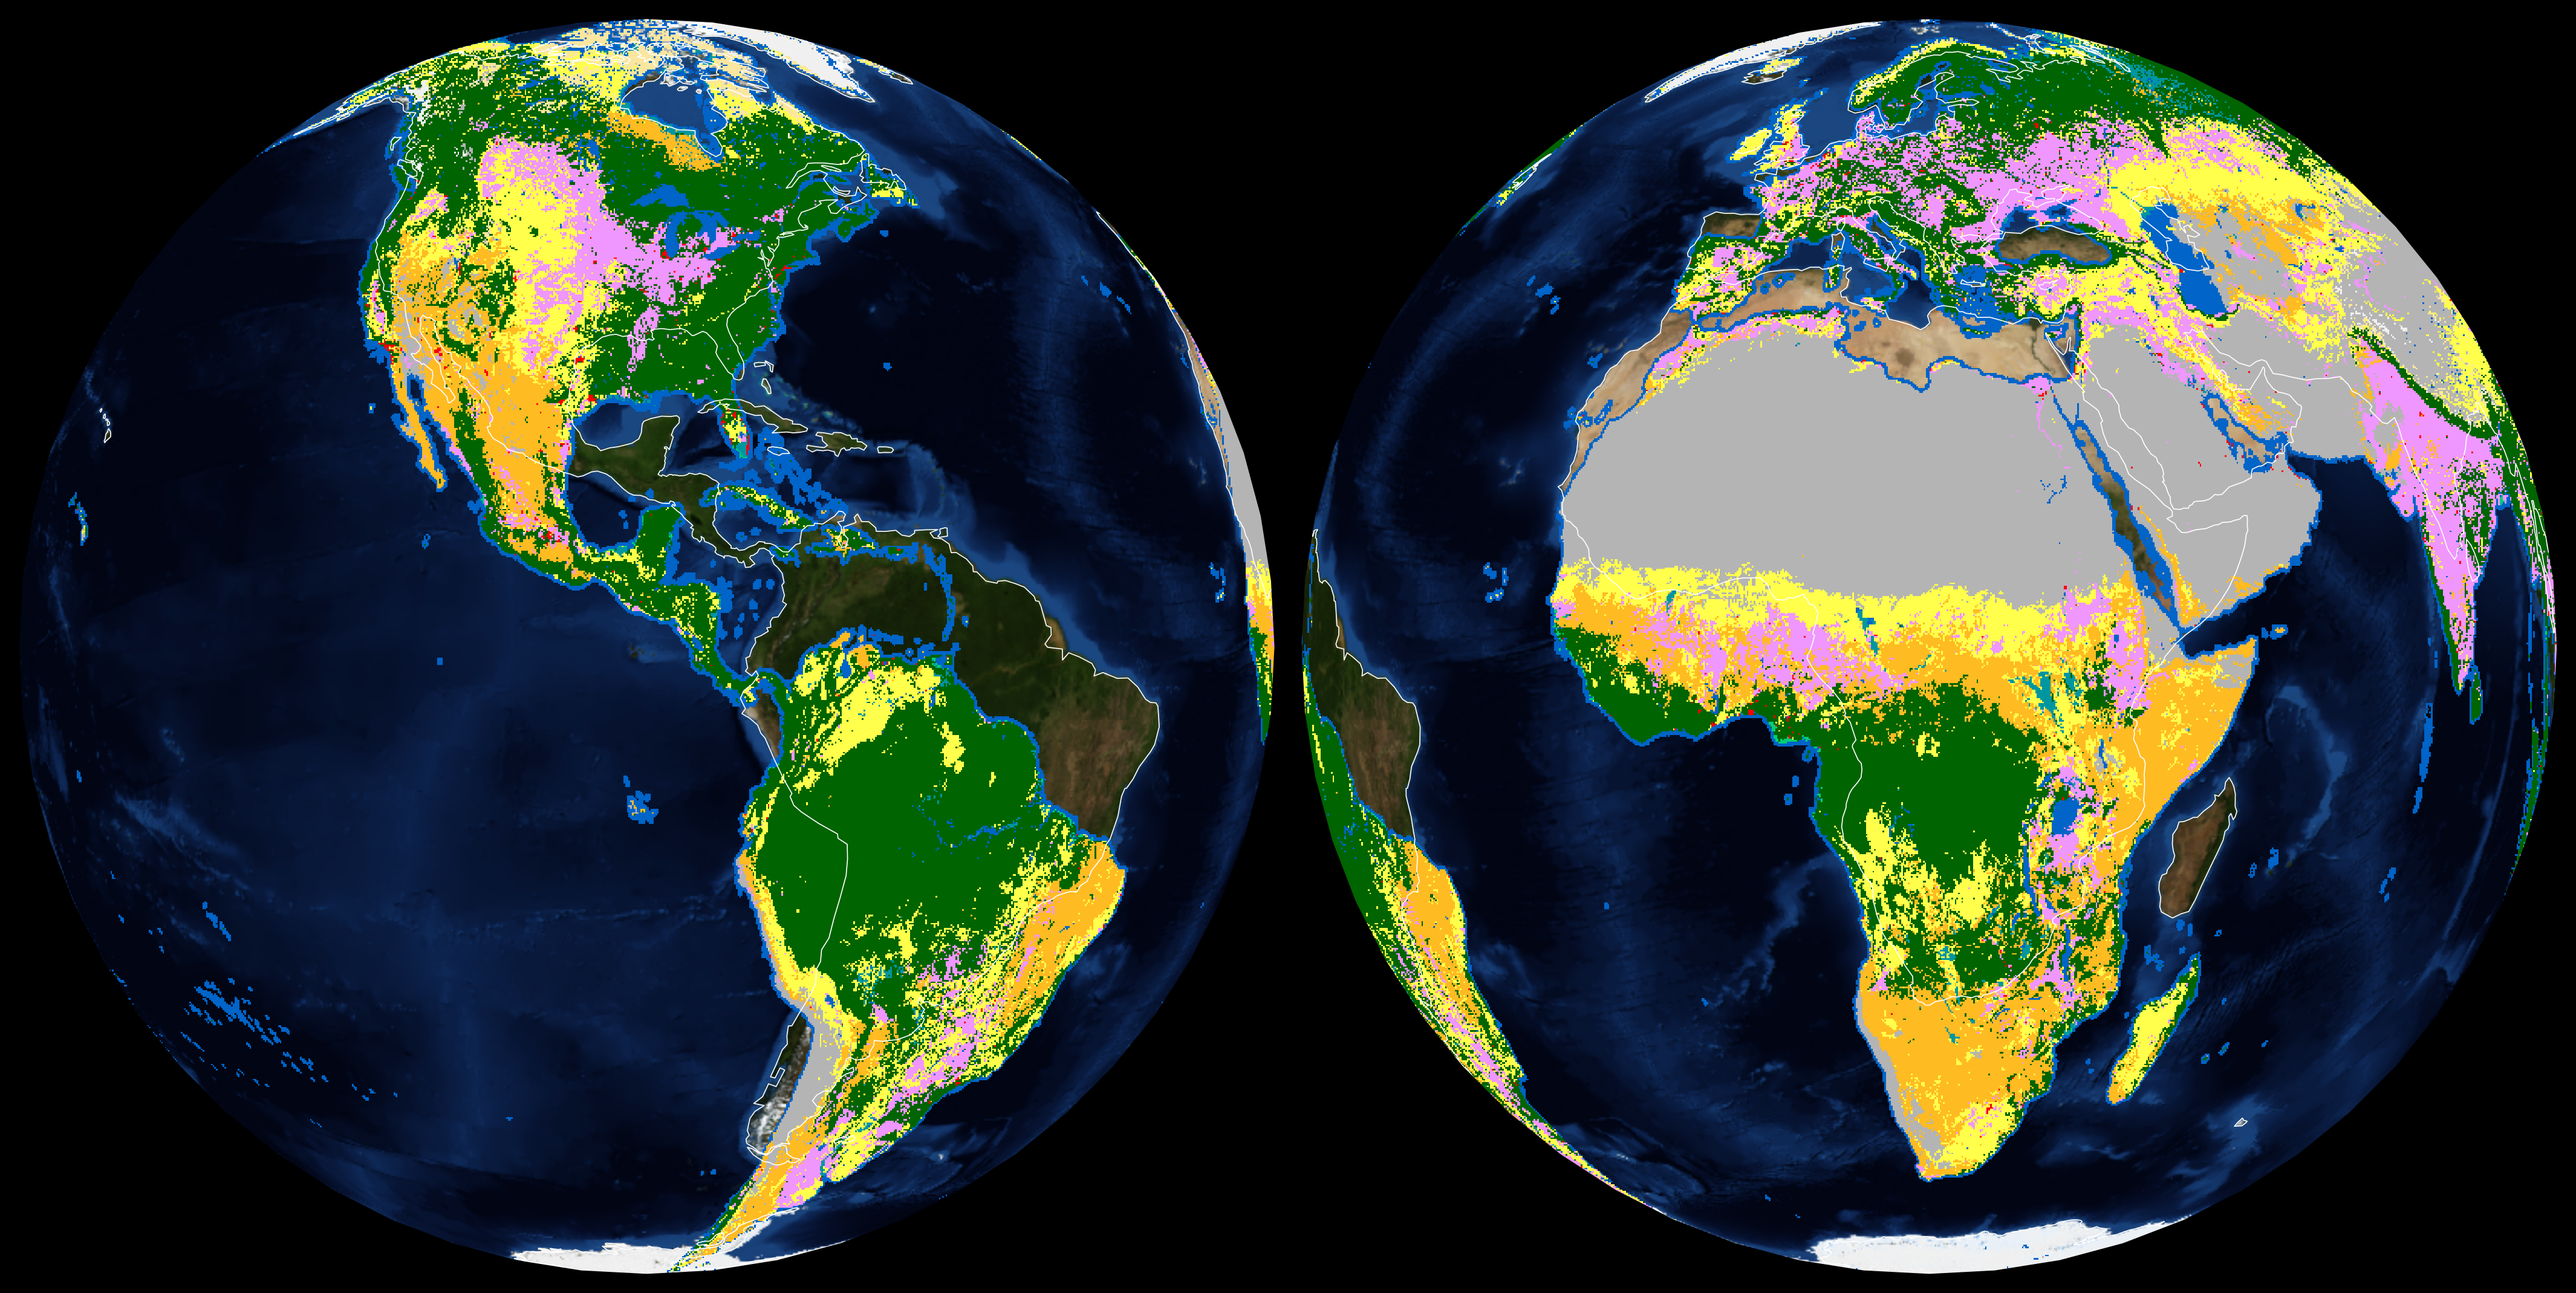
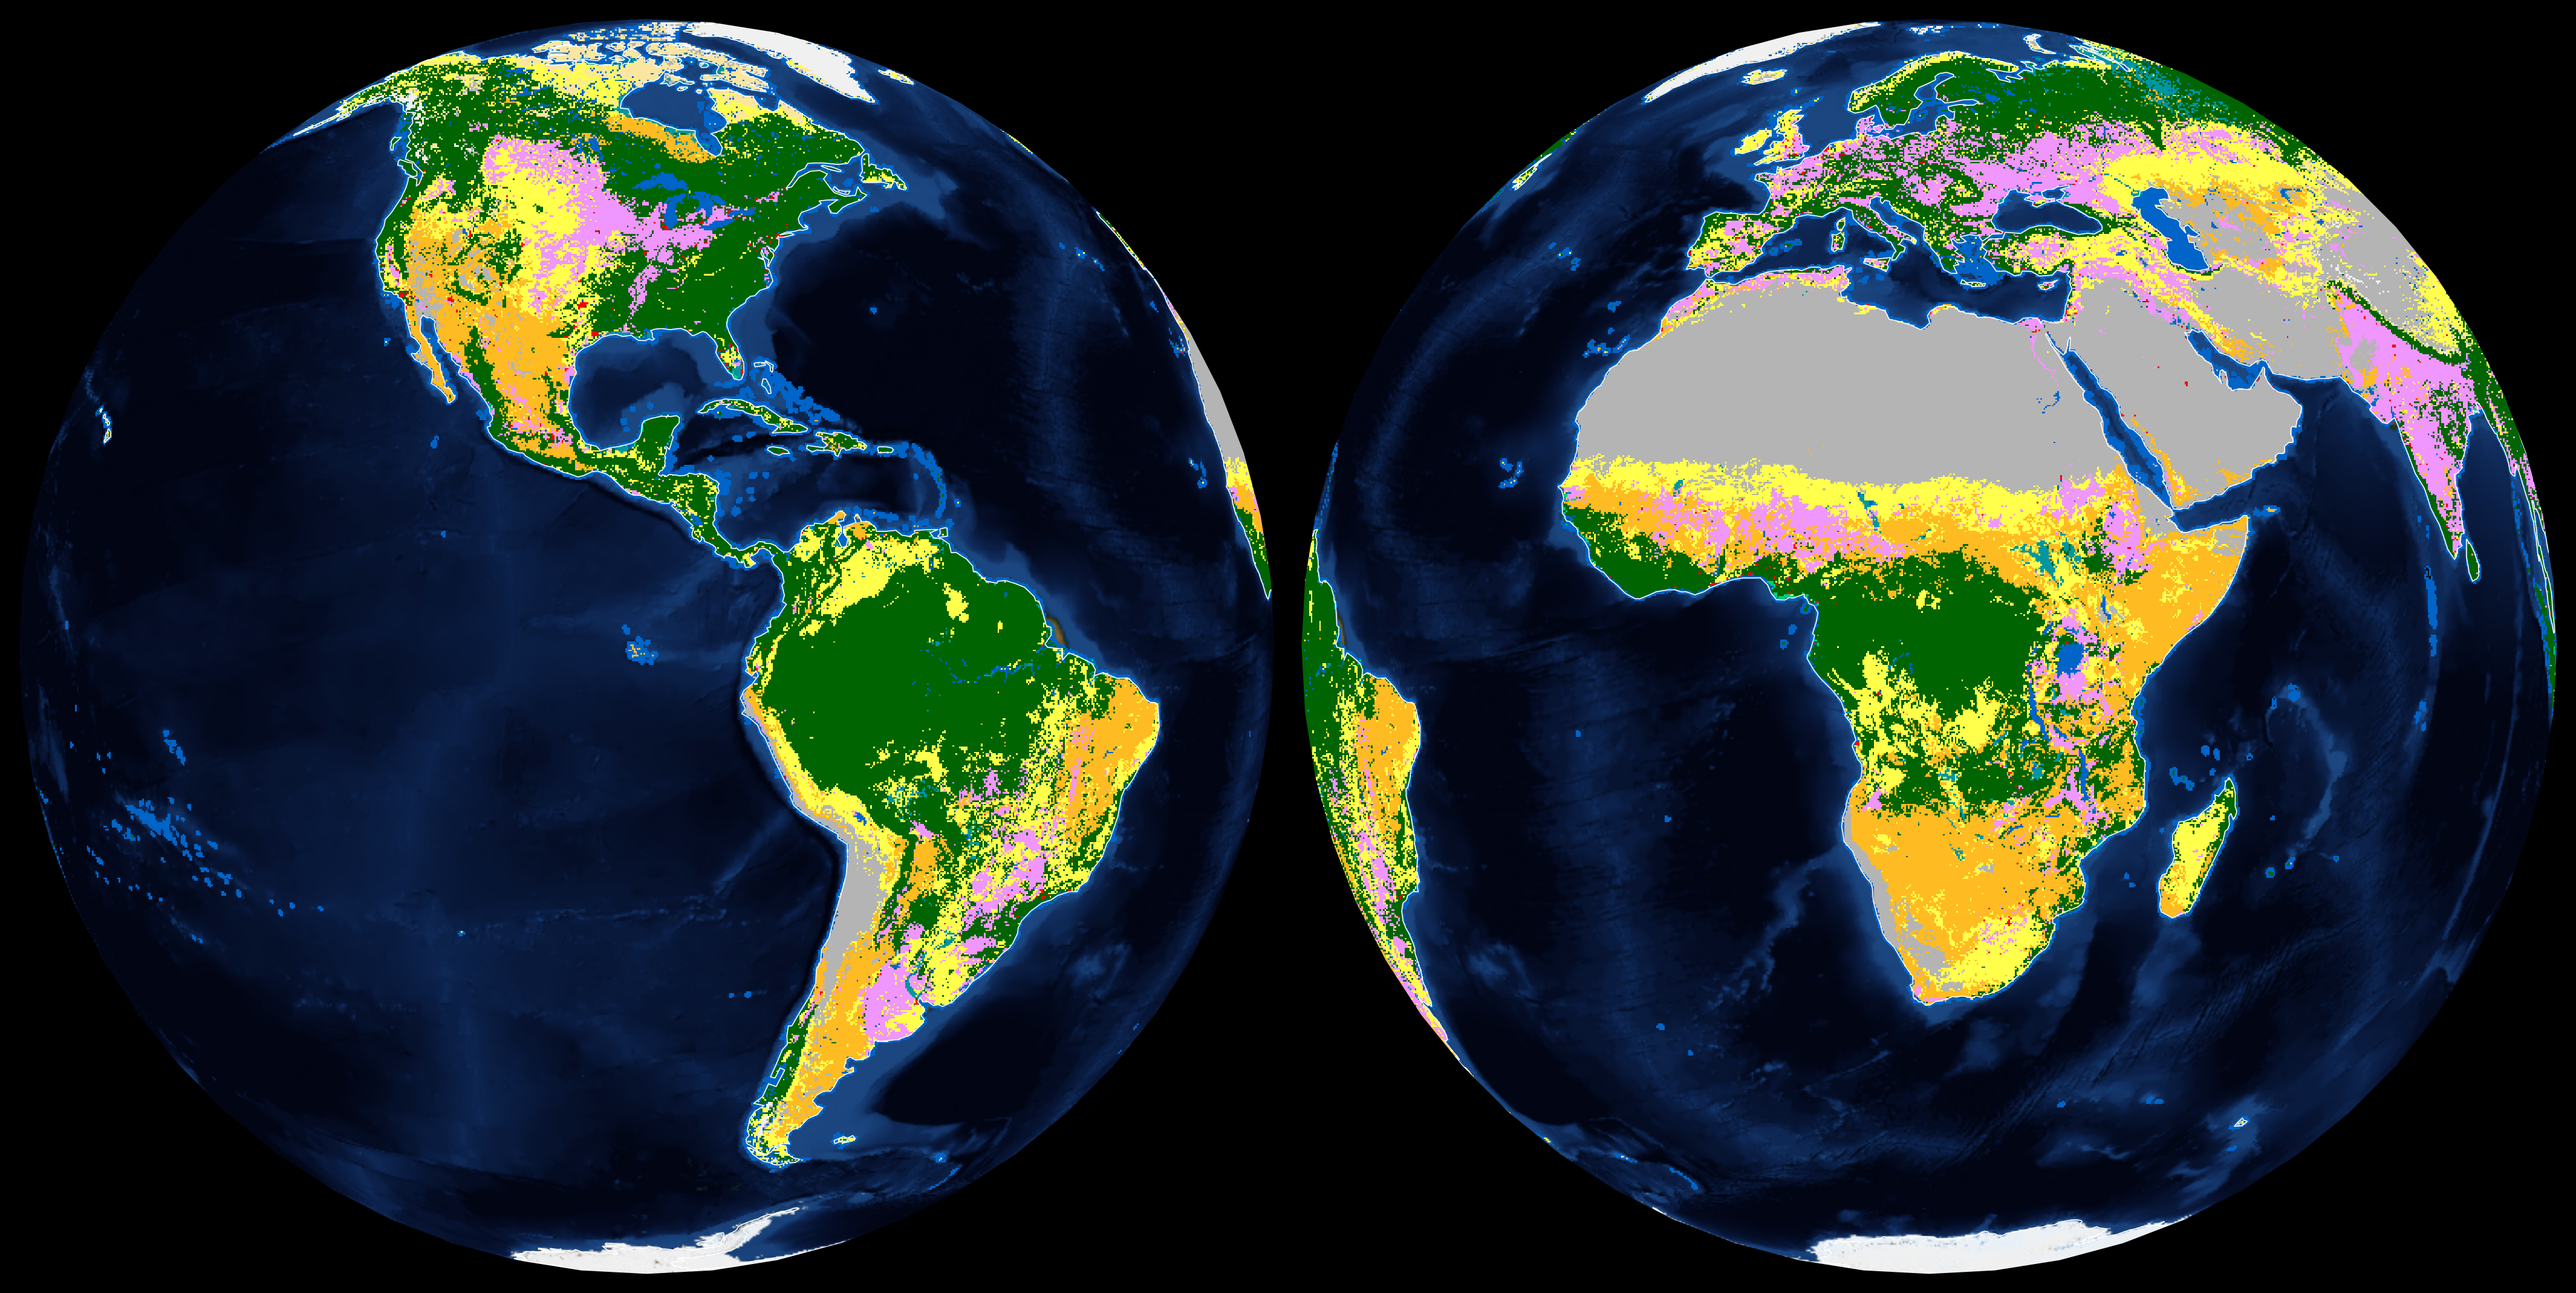
Fix layer misalignment by reading extents from COG metadata
The LCM-10 coverage is 60S–82.75N, not the full globe. Hardcoding
extent=[-180,180,-90,90] stretched the 14275-row raster across 180°
of latitude instead of the actual 143°, causing a southward shift.

load_data() and load_background() now return (array, extent) tuples
where extent=[left,right,bottom,top] is read from src.bounds. These
are passed through build_figure() to each ax.imshow() call, so both
layers are positioned at their true geographic extents.

LCM-10 extent: [-180, 180, -60, 82.75]
Background extent: [-180, 180, -90, 90]

https://claude.ai/code/session_01Nrk7wMPNy1q5ZDnAwWYGD9

diff --git a/scripts/dual_globe.py b/scripts/dual_globe.py
@@ -194,8 +194,8 @@ def _read_overview(src: rasterio.DatasetReader, downsample: int,
     return src.read(out_shape=target_shape, resampling=resampling_fallback, **kwargs)
 
 
-def load_data(cog_url: str, downsample: int) -> np.ndarray:
-    """Open the LCM-10 COG and return an RGBA (H, W, 4) uint8 array.
+def load_data(cog_url: str, downsample: int) -> tuple[np.ndarray, list[float]]:
+    """Open the LCM-10 COG and return an RGBA (H, W, 4) array and its extent.
 
     Uses ``Resampling.mode`` as fallback (majority vote — correct for
     categorical data).
@@ -205,12 +205,17 @@ def load_data(cog_url: str, downsample: int) -> np.ndarray:
         downsample: Integer decimation factor (e.g. 8 → 1/8 resolution).
 
     Returns:
-        RGBA array ready for ``ax.imshow``.
+        Tuple of (RGBA array, extent) where extent is
+        ``[left, right, bottom, top]`` in degrees, read directly from the COG
+        metadata (e.g. [-180, 180, -60, 83] for LCM-10).
     """
     print(f"Opening LCM-10 COG: {cog_url}")
     with rasterio.open(cog_url) as src:
         print(f"  native size : {src.width} × {src.height}")
         print(f"  overviews   : {src.overviews(1)}")
+        b = src.bounds
+        extent = [b.left, b.right, b.bottom, b.top]
+        print(f"  extent      : {extent}")
         data = _read_overview(src, downsample, Resampling.mode)
 
     band       = data[0]
@@ -219,11 +224,11 @@ def load_data(cog_url: str, downsample: int) -> np.ndarray:
     print("  applying colormap ...")
     rgba = apply_colormap(band, alpha_band, COLORMAP_HEX)
     print(f"  done — RGBA shape {rgba.shape}")
-    return rgba
+    return rgba, extent
 
 
-def load_background(cog_url: str, downsample: int) -> np.ndarray:
-    """Open a background imagery COG and return an (H, W, 3) uint8 RGB array.
+def load_background(cog_url: str, downsample: int) -> tuple[np.ndarray, list[float]]:
+    """Open a background imagery COG and return an (H, W, 3) RGB array and extent.
 
     Reads only the first three bands (R, G, B).  Uses ``Resampling.bilinear``
     as fallback, which is appropriate for continuous imagery.
@@ -233,21 +238,26 @@ def load_background(cog_url: str, downsample: int) -> np.ndarray:
         downsample: Integer decimation factor.
 
     Returns:
-        RGB array of shape (H, W, 3), dtype uint8, ready for ``ax.imshow``.
+        Tuple of (RGB array, extent) where extent is
+        ``[left, right, bottom, top]`` in degrees, read from the COG metadata.
     """
     print(f"Opening background COG: {cog_url}")
     with rasterio.open(cog_url) as src:
         print(f"  native size : {src.width} × {src.height}")
         print(f"  overviews   : {src.overviews(1)}")
+        b = src.bounds
+        extent = [b.left, b.right, b.bottom, b.top]
+        print(f"  extent      : {extent}")
         data = _read_overview(src, downsample, Resampling.bilinear, bands=[1, 2, 3])
 
     rgb = np.moveaxis(data, 0, -1)  # (3, H, W) → (H, W, 3)
     print(f"  done — RGB shape {rgb.shape}")
-    return rgb
+    return rgb, extent
 
 
 def build_figure(
     rgba: np.ndarray,
+    lcm_extent: list[float],
     globe_centers: list[tuple[float, float]],
     background: str,
     fig_w_per_globe: float,
@@ -255,11 +265,14 @@ def build_figure(
     coastline_color: str,
     coastline_width: float,
     bg_rgb: np.ndarray | None = None,
+    bg_extent: list[float] | None = None,
 ) -> plt.Figure:
     """Compose the multi-panel globe figure.
 
     Args:
-        rgba: RGBA (H, W, 4) uint8 array covering [-180, 180] × [-90, 90].
+        rgba: RGBA (H, W, 4) uint8 LCM-10 array.
+        lcm_extent: ``[left, right, bottom, top]`` in degrees for the LCM-10
+            layer (e.g. ``[-180, 180, -60, 83]``).
         globe_centers: List of (central_lon, central_lat) for each panel.
         background: ``"black"``, ``"white"``, or ``"transparent"``.
         fig_w_per_globe: Width per globe panel in inches.
@@ -268,6 +281,8 @@ def build_figure(
         coastline_width: Line width for coastline features.
         bg_rgb: Optional (H, W, 3) uint8 RGB background imagery.  ``None``
             → use Cartopy's built-in Natural Earth stock image instead.
+        bg_extent: ``[left, right, bottom, top]`` for ``bg_rgb``.  Ignored
+            when ``bg_rgb`` is ``None``.
 
     Returns:
         Configured :class:`matplotlib.figure.Figure`.
@@ -295,7 +310,7 @@ def build_figure(
             ax.imshow(
                 bg_rgb,
                 origin="upper",
-                extent=[-180, 180, -90, 90],
+                extent=bg_extent,
                 transform=ccrs.PlateCarree(),
                 interpolation="bilinear",
                 zorder=0,
@@ -306,11 +321,11 @@ def build_figure(
 
         # --- LCM-10 land cover overlay (zorder 1) --------------------------
         # No-data pixels (alpha=0) are transparent, letting the background
-        # show through in areas outside the LCM-10 coverage extent.
+        # show through in areas outside the LCM-10 coverage extent (60S–83N).
         ax.imshow(
             rgba,
             origin="upper",
-            extent=[-180, 180, -90, 90],
+            extent=lcm_extent,
             transform=ccrs.PlateCarree(),
             interpolation="nearest",
             zorder=1,
@@ -331,11 +346,12 @@ def build_figure(
 
 
 def main() -> None:
-    rgba = load_data(COG_URL, DOWNSAMPLE_FACTOR)
+    rgba, lcm_extent = load_data(COG_URL, DOWNSAMPLE_FACTOR)
 
     bg_rgb: np.ndarray | None = None
+    bg_extent: list[float] | None = None
     if BG_COG_URL:
-        bg_rgb = load_background(BG_COG_URL, BG_DOWNSAMPLE_FACTOR)
+        bg_rgb, bg_extent = load_background(BG_COG_URL, BG_DOWNSAMPLE_FACTOR)
 
     if len(GLOBE_CENTERS) != N_GLOBES:
         raise ValueError(
@@ -346,6 +362,7 @@ def main() -> None:
     print(f"Building {N_GLOBES}-globe figure (background={BACKGROUND!r}, base={bg_label}) ...")
     fig = build_figure(
         rgba=rgba,
+        lcm_extent=lcm_extent,
         globe_centers=GLOBE_CENTERS,
         background=BACKGROUND,
         fig_w_per_globe=FIG_WIDTH_PER_GLOBE,
@@ -353,6 +370,7 @@ def main() -> None:
         coastline_color=COASTLINE_COLOR,
         coastline_width=COASTLINE_WIDTH,
         bg_rgb=bg_rgb,
+        bg_extent=bg_extent,
     )
 
     transparent = BACKGROUND == "transparent"
